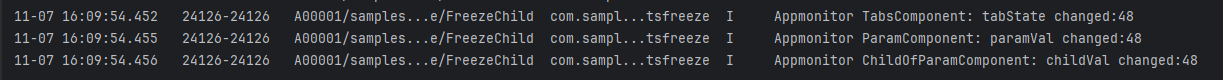
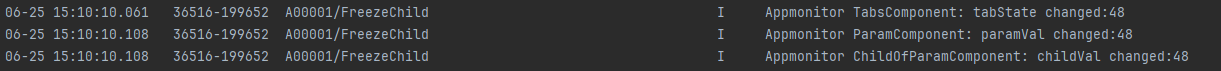
fix common sense

diff --git a/zh-cn/application-dev/ui/state-management/arkts-custom-components-new-lifecycle.md b/zh-cn/application-dev/ui/state-management/arkts-custom-components-new-lifecycle.md
@@ -744,7 +744,7 @@ Parent myBuilt
 Child myAppear
 Child myBuilt
 ```
-当showchild为默认值true时，该示例的生命周期流程图如下所示：
+当showChild为默认值true时，该示例的生命周期流程图如下所示：
 
 ![custom-component-lifecycle-demo2](figures/custom-component-lifecycle-nest.png)
 
@@ -904,7 +904,7 @@ GrandChild myAppear
 GrandChild myBuilt
 ```
 
-- 点击Button按钮，更改showChild为false，回收Child组件和GrandChild组件，执行Child和GrandChild的myRecycle函数。
+- 点击Button按钮，更改switch为false，回收Child组件和GrandChild组件，执行Child和GrandChild的myRecycle函数。
 
 ```text
 Child myRecycle
@@ -1182,38 +1182,38 @@ export struct SwiperExample {
   }
 }
 ```
-启动程序后，先按start按钮，此时只有swipe缓存的五个节点开始执行aboutToAppear和myAppear，非缓存的节点未触发aboutToAppear和myAppear。
+启动程序后，先按start按钮，此时只有Swiper缓存的五个节点开始执行aboutToAppear和myAppear，非缓存的节点未触发aboutToAppear和myAppear。
 
 日志输出信息如下：
 
 ```text
-SwiperPage:aboutToAppear 0
-SwiperPage:myAppear 0
-SwiperPage:aboutToAppear 11
-SwiperPage:myAppear 11
-SwiperPage:aboutToAppear 1
-SwiperPage:myAppear 1
-SwiperPage:aboutToAppear 10
-SwiperPage:myAppear 10
-SwiperPage:aboutToAppear 2
-SwiperPage:myAppear 2
+SwiperPage aboutToAppear 0
+SwiperPage myAppear 0
+SwiperPage aboutToAppear 11
+SwiperPage myAppear 11
+SwiperPage aboutToAppear 1
+SwiperPage myAppear 1
+SwiperPage aboutToAppear 10
+SwiperPage myAppear 10
+SwiperPage aboutToAppear 2
+SwiperPage myAppear 2
 ```
 
 此时关闭程序，缓存的五个节点正常触发aboutToDisappear，但是非缓存的节点触发aboutToDisappear前，会强制触发aboutToAppear。无论是否是缓存节点，myDisappear不会误触发myAppear。
 
 ```text
-SwiperPage:myDisappear 0
-SwiperPage:aboutToDisappear 0
-SwiperPage:myDisappear 1
-SwiperPage:aboutToDisappear 1
-SwiperPage:myDisappear 2
-SwiperPage:aboutToDisappear 2
-SwiperPage:aboutToAppear 3
-SwiperPage:myDisappear 3
-SwiperPage:aboutToDisappear 3
-SwiperPage:aboutToAppear 4
-SwiperPage:myDisappear 4
-SwiperPage:aboutToDisappear 4
+SwiperPage myDisappear 0
+SwiperPage aboutToDisappear 0
+SwiperPage myDisappear 1
+SwiperPage aboutToDisappear 1
+SwiperPage myDisappear 2
+SwiperPage aboutToDisappear 2
+SwiperPage aboutToAppear 3
+SwiperPage myDisappear 3
+SwiperPage aboutToDisappear 3
+SwiperPage aboutToAppear 4
+SwiperPage myDisappear 4
+SwiperPage aboutToDisappear 4
 ...
 ```
 

diff --git a/zh-cn/application-dev/ui/state-management/arkts-custom-components-freeze.md b/zh-cn/application-dev/ui/state-management/arkts-custom-components-freeze.md
@@ -1093,7 +1093,7 @@ struct DelayComponent {
   @Prop @Watch('onChange') delayVal: number;
 
   onChange() {
-    hilog.info(DOMAIN, TAG, `Appmonitor ParamComponent: delayVal changed:${this.delayVal}`);
+    hilog.info(DOMAIN, TAG, `Appmonitor DelayComponent: delayVal changed:${this.delayVal}`);
   }
 
   build() {
@@ -1241,13 +1241,13 @@ struct PageTwoStack {
 
 点击`Next page`进入下一个页面并返回，标签默认在DelayUpdate，再次点击`Incr state`，日志中查询Appmonitor，存在4个打印，页面路由返回时，会解冻Tabcontent所有的标签。
 
-![freeze](figures/freeze_tabcontent_back_api15.png)
+![freeze](figures/freeze_tabcontent_before_api18.png)
 
 在API version 18及以上：
 
 点击`Next page`进入下一个页面并返回，标签默认在DelayUpdate，再次点击`Incr state`，日志中查询Appmonitor，存在2个打印，页面路由返回时，只会解冻对应标签的节点。
 
-![freeze](figures/freeze_tabcontent_back_api16.png)
+![freeze](figures/freeze_tabcontent_after_api18.png)
 
 **页面和LazyForEach**
 

diff --git a/zh-cn/application-dev/ui/state-management/arkts-new-provider-and-consumer.md b/zh-cn/application-dev/ui/state-management/arkts-new-provider-and-consumer.md
@@ -1066,7 +1066,7 @@ struct TestRemove {
 
 上面的例子中：
 
-- 点击`add Child`，`TestRemove`中\@Consumer向上找到最近的`RemoChildDisconnectProvider`中的\@Provider，将\@Consumer从默认值更新为\@Provider的值，并回调\@Consumer的\@Monitor方法。
+- 点击`add child`，`TestRemove`中\@Consumer向上找到最近的`RemoChildDisconnectProvider`中的\@Provider，将\@Consumer从默认值更新为\@Provider的值，并回调\@Consumer的\@Monitor方法。
 - \@Provider和\@Consumer配对后，建立双向同步关系。点击`change Provider`和`change cc`，\@Provider和\@Consumer绑定的Text组件刷新，并回调\@Provider和\@Consumer的\@Monitor方法。
-- 点击`remove Child`，BuilderNode子节点从组件树卸载，`TestRemove`中的\@Consumer和`RemoChildDisconnectProvider`中的\@Provider断开连接，`TestRemove`中的\@Consumer恢复成默认值，并回调\@Consumer的\@Monitor方法。
-- 点击`dispose Child`，释放BuilderNode下的子节点`TestRemove`，随后该子节点销毁，执行aboutToDisappear回调。
+- 点击`remove child`，BuilderNode子节点从组件树卸载，`TestRemove`中的\@Consumer和`RemoChildDisconnectProvider`中的\@Provider断开连接，`TestRemove`中的\@Consumer恢复成默认值，并回调\@Consumer的\@Monitor方法。
+- 点击`dispose child`，释放BuilderNode下的子节点`TestRemove`，随后该子节点销毁，执行aboutToDisappear回调。

diff --git a/zh-cn/application-dev/reference/apis-arkui/arkui-ts/ts-custom-component-lifecycle.md b/zh-cn/application-dev/reference/apis-arkui/arkui-ts/ts-custom-component-lifecycle.md
@@ -368,8 +368,8 @@ struct Child {
   @State message: Message = new Message('AboutToReuse');
 
   aboutToReuse(params: Record<string, ESObject>) {
-    console.info("Recycle Child")
-    this.message = params.message as Message
+    console.info('Reuse Child');
+    this.message = params.message as Message;
   }
 
   build() {

diff --git a/zh-cn/application-dev/reference/apis-arkui/errorcode-stateManagement.md b/zh-cn/application-dev/reference/apis-arkui/errorcode-stateManagement.md
@@ -277,7 +277,7 @@ Old toolchain detected. Please upgrade to the latest.
 
 **错误描述**
 
-从API version 23开始，支持[\@Reusable](../../ui/state-management/arkts-reusable.md)（父组件）中创建[\@ComponentV2](../../ui/state-management/arkts-create-custom-components.md#componentv2)（子组件），但需要开发者使用API version 18及以上SDK，详情见[\@ReusableV2使用限制](../../ui/state-management/arkts-new-reusableV2.md#使用限制)。
+从API version 18开始，支持[\@Reusable](../../ui/state-management/arkts-reusable.md)（父组件）中创建[\@ComponentV2](../../ui/state-management/arkts-create-custom-components.md#componentv2)（子组件），但需要开发者使用API version 18及以上SDK，否则会有运行时报错，从API version 23开始，将返回此错误码，详情见[\@ReusableV2使用限制](../../ui/state-management/arkts-new-reusableV2.md#使用限制)。
 
 **可能原因**
 
@@ -323,7 +323,7 @@ Illegal variable value error with decorated variable
 
 使用状态管理V1的状态变量支持的类型，以\@State为例，详情见[\@State装饰器使用规则说明](../../ui/state-management/arkts-state.md#装饰器使用规则说明)。
 
-## 140116 AppStorageV2使用非法的key
+## 140116 AppStorageV2或PersistenceV2使用非法的key
 
 **错误信息**
 

diff --git a/zh-cn/application-dev/ui/state-management/arkts-custom-components-freezeV2.md b/zh-cn/application-dev/ui/state-management/arkts-custom-components-freezeV2.md
@@ -828,11 +828,11 @@ struct PageTwoStack2 {
 
 在API version 17及以下：
 
-点击`Next page`进入下一个页面并返回，会解冻Tabcontent所有的标签。
+点击`Next Page`进入下一个页面并返回，会解冻TabContent所有的标签。
 
 在API version 18及以上：
 
-点击`Next page`进入下一个页面并返回，只会解冻对应标签的节点。
+点击`Next Page`进入下一个页面并返回，只会解冻对应标签的节点。
 
 ## 限制条件
 

diff --git a/zh-cn/application-dev/ui/state-management/arkts-new-appstoragev2.md b/zh-cn/application-dev/ui/state-management/arkts-new-appstoragev2.md
@@ -251,7 +251,7 @@ struct PageOne {
           })
 
         // 获取当前AppStorageV2里面的所有key
-        Text(`all keys in AppStorage: ${AppStorageV2.keys()}`)
+        Text(`all keys in AppStorageV2: ${AppStorageV2.keys()}`)
           .fontSize(30)
           .margin(10)
       }
@@ -305,7 +305,7 @@ struct PageTwo {
           })
 
         // 获取当前AppStorageV2里面的所有key
-        Text(`all keys in AppStorage: ${AppStorageV2.keys()}`)
+        Text(`all keys in AppStorageV2: ${AppStorageV2.keys()}`)
           .fontSize(30)
           .margin(10)
       }

diff --git a/zh-cn/application-dev/ui/state-management/arkts-observed-and-objectlink.md b/zh-cn/application-dev/ui/state-management/arkts-observed-and-objectlink.md
@@ -940,7 +940,7 @@ struct SetSampleNestedChild {
 
 ![Observed_ObjectLink_inherit_set](figures/Observed_ObjectLink_inherit_set.gif)
 
-### ObjectLink支持联合类型
+### \@ObjectLink支持联合类型
 
 \@ObjectLink支持\@Observed装饰类和undefined或null组成的联合类型，在下面的示例中，count类型为Source | Data | undefined，点击父组件Parent中的Button改变count的属性或者类型，Child组件中对应的Text组件刷新。
 
@@ -1765,7 +1765,7 @@ struct DelayedChangeIndex {
 
 ![observed-sync-7](./figures/observed-sync-7.png)
 
-上文的示例代码将定时器修改移入到组件内，此时界面显示时会先显示“The value of renderClass is：false”。待定时器触发时，renderClass的值改变，触发[@Watch](./arkts-watch.md)回调，此时界面刷新显示“The value of renderClass is：true”，日志输出“The value of renderClass is changed to：true”。
+上文的示例代码将定时器修改移入到组件内，此时界面显示时会先显示“The value of renderClass is: false”。待定时器触发时，renderClass的值改变，触发[@Watch](./arkts-watch.md)回调，此时界面刷新显示“The value of renderClass is: true”，日志输出“The value of renderClass is changed to: true”。
 
 因此，更推荐开发者在组件中对\@Observed装饰的类成员变量进行修改，以实现刷新。
 

diff --git a/zh-cn/application-dev/ui/state-management/arkts-provide-and-consume.md b/zh-cn/application-dev/ui/state-management/arkts-provide-and-consume.md
@@ -764,7 +764,7 @@ struct Parent {
 
 ![provide_consume_date_sync](figures/provide_consume_date_sync.gif)
 
-### Provide和Consume支持联合类型实例
+### @Provide和@Consume支持联合类型实例
 
 @Provide和@Consume支持联合类型和undefined和null。以下示例中，count类型为string | undefined，当点击祖先组件Ancestors中的Button改变count的属性或者类型时，Child中也会对应刷新。
 
@@ -1036,7 +1036,7 @@ struct Child {
 在上面的示例中：
 - Parent声明了@Provide('firstKey') provideOne: string | undefined = undefined 与 @Provide('secondKey') provideTwo: string = 'the second provider'。
 - Child声明了@Consume('firstKey') textOne: string | undefined = 'child'，@Consume('secondKey') textTwo: string 与 @Consume('thirdKey') textThree: string = 'defaultValue'。
-- Child是Parent的子组件，Child在初始化@Consume装饰的三个属性时，textOne根据'firstKey'别名绑定Parent中的provideOne属性，provideOne的值会覆盖textOne的默认值，所以textOne初始化的值为undefined；textTwo根据'secondKey'别名绑定Parent中的providedTwo属性，textTwo初始化的值为'the second provider'；textThree在祖先组件中不存在匹配结果，如果@Consume没有设置默认值，则会抛出运行时错误，示例中textThree有默认值'defaultValue'，所以textThree初始化的值为'defaultValue'。
+- Child是Parent的子组件，Child在初始化@Consume装饰的三个属性时，textOne根据'firstKey'别名绑定Parent中的provideOne属性，provideOne的值会覆盖textOne的默认值，所以textOne初始化的值为undefined；textTwo根据'secondKey'别名绑定Parent中的provideTwo属性，textTwo初始化的值为'the second provider'；textThree在祖先组件中不存在匹配结果，如果@Consume没有设置默认值，则会抛出运行时错误，示例中textThree有默认值'defaultValue'，所以textThree初始化的值为'defaultValue'。
 - @Consume装饰的属性设置的默认值仅在祖先组件没有匹配结果时才生效，有匹配结果时无影响。
 
 ### \@Consume在跨BuilderNode场景下和\@Provide建立双向同步

diff --git a/zh-cn/application-dev/ui/state-management/arkts-state-management-faq-inner-class.md b/zh-cn/application-dev/ui/state-management/arkts-state-management-faq-inner-class.md
@@ -21,9 +21,9 @@ UIUtils.getTarget(value) === value
 
 ## 类的构造函数中通过捕获this修改变量无法观察
 
-当在构造函数中初始化修改`success`的[箭头函数](../../quick-start/introduction-to-arkts.md#箭头函数又名lambda函数)时，`TestModel`实例尚未被代理封装，`this`指向`TestModel`实例本身。因此，后续触发`query`事件时，状态管理无法观测到变化。
+当在构造函数中初始化修改`isSuccess`的[箭头函数](../../quick-start/introduction-to-arkts.md#箭头函数又名lambda函数)时，`TestModel`实例尚未被代理封装，`this`指向`TestModel`实例本身。因此，后续触发`query`事件时，状态管理无法观测到变化。
 
-当开发者将修改`success`的箭头函数放在`query`中时，已完成`TestModel`对象初始化和代理封装。通过`this.viewModel.query()`调用`query`时，`query`函数中的`this`指向`viewModel`代理对象，对代理对象成员属性`isSuccess`的更改能够被观测到，因此触发`query`事件可以被状态管理观测到变化。
+当开发者将修改`isSuccess`的箭头函数放在`query`中时，已完成`TestModel`对象初始化和代理封装。通过`this.viewModel.query()`调用`query`时，`query`函数中的`this`指向`viewModel`代理对象，对代理对象成员属性`isSuccess`的更改能够被观测到，因此触发`query`事件可以被状态管理观测到变化。
 
 【反例】
 <!-- @[state_problem_this_unable_observe_opposite](https://gitcode.com/openharmony/applications_app_samples/blob/master/code/DocsSample/ArkUISample/ParadigmStateManagement/entry/src/main/ets/pages/state/StateProblemThisUnableObserveOpposite.ets) -->  

diff --git a/zh-cn/application-dev/reference/apis-arkui/arkui-ts/ts-custom-component-parameter.md b/zh-cn/application-dev/reference/apis-arkui/arkui-ts/ts-custom-component-parameter.md
@@ -14,7 +14,7 @@
 
 ## ComponentOptions
 
-自定义组件参数，用于配置是否支持组件冻结。
+自定义组件参数，用于配置是否支持组件冻结和全局复用池。
 
 **系统能力：** SystemCapability.ArkUI.ArkUI.Full
 

diff --git a/zh-cn/application-dev/ui/arkts-custom-env-property.md b/zh-cn/application-dev/ui/arkts-custom-env-property.md
@@ -971,7 +971,7 @@ struct Child {
 
 ![image](./figures/custom-env-14.gif)
 
-- \@CustomEnv提供状态管理V2的观察能力，当\@CustomEnv装饰的变量是\@Observed时，需要调用[enableV2Compatibility](../reference/apis-arkui/js-apis-stateManagement.md#enablev2compatibility19)使其具有观察类属性的能力，否则将无法观察类属性的变化。
+- \@CustomEnv提供状态管理V2的观察能力，当\@CustomEnv装饰的变量的类型被\@Observed装饰时，需要调用[enableV2Compatibility](../reference/apis-arkui/js-apis-stateManagement.md#enablev2compatibility19)使其具有观察类属性的能力，否则将无法观察类属性的变化。
 ```ts
 import { UIUtils } from '@kit.ArkUI';
 